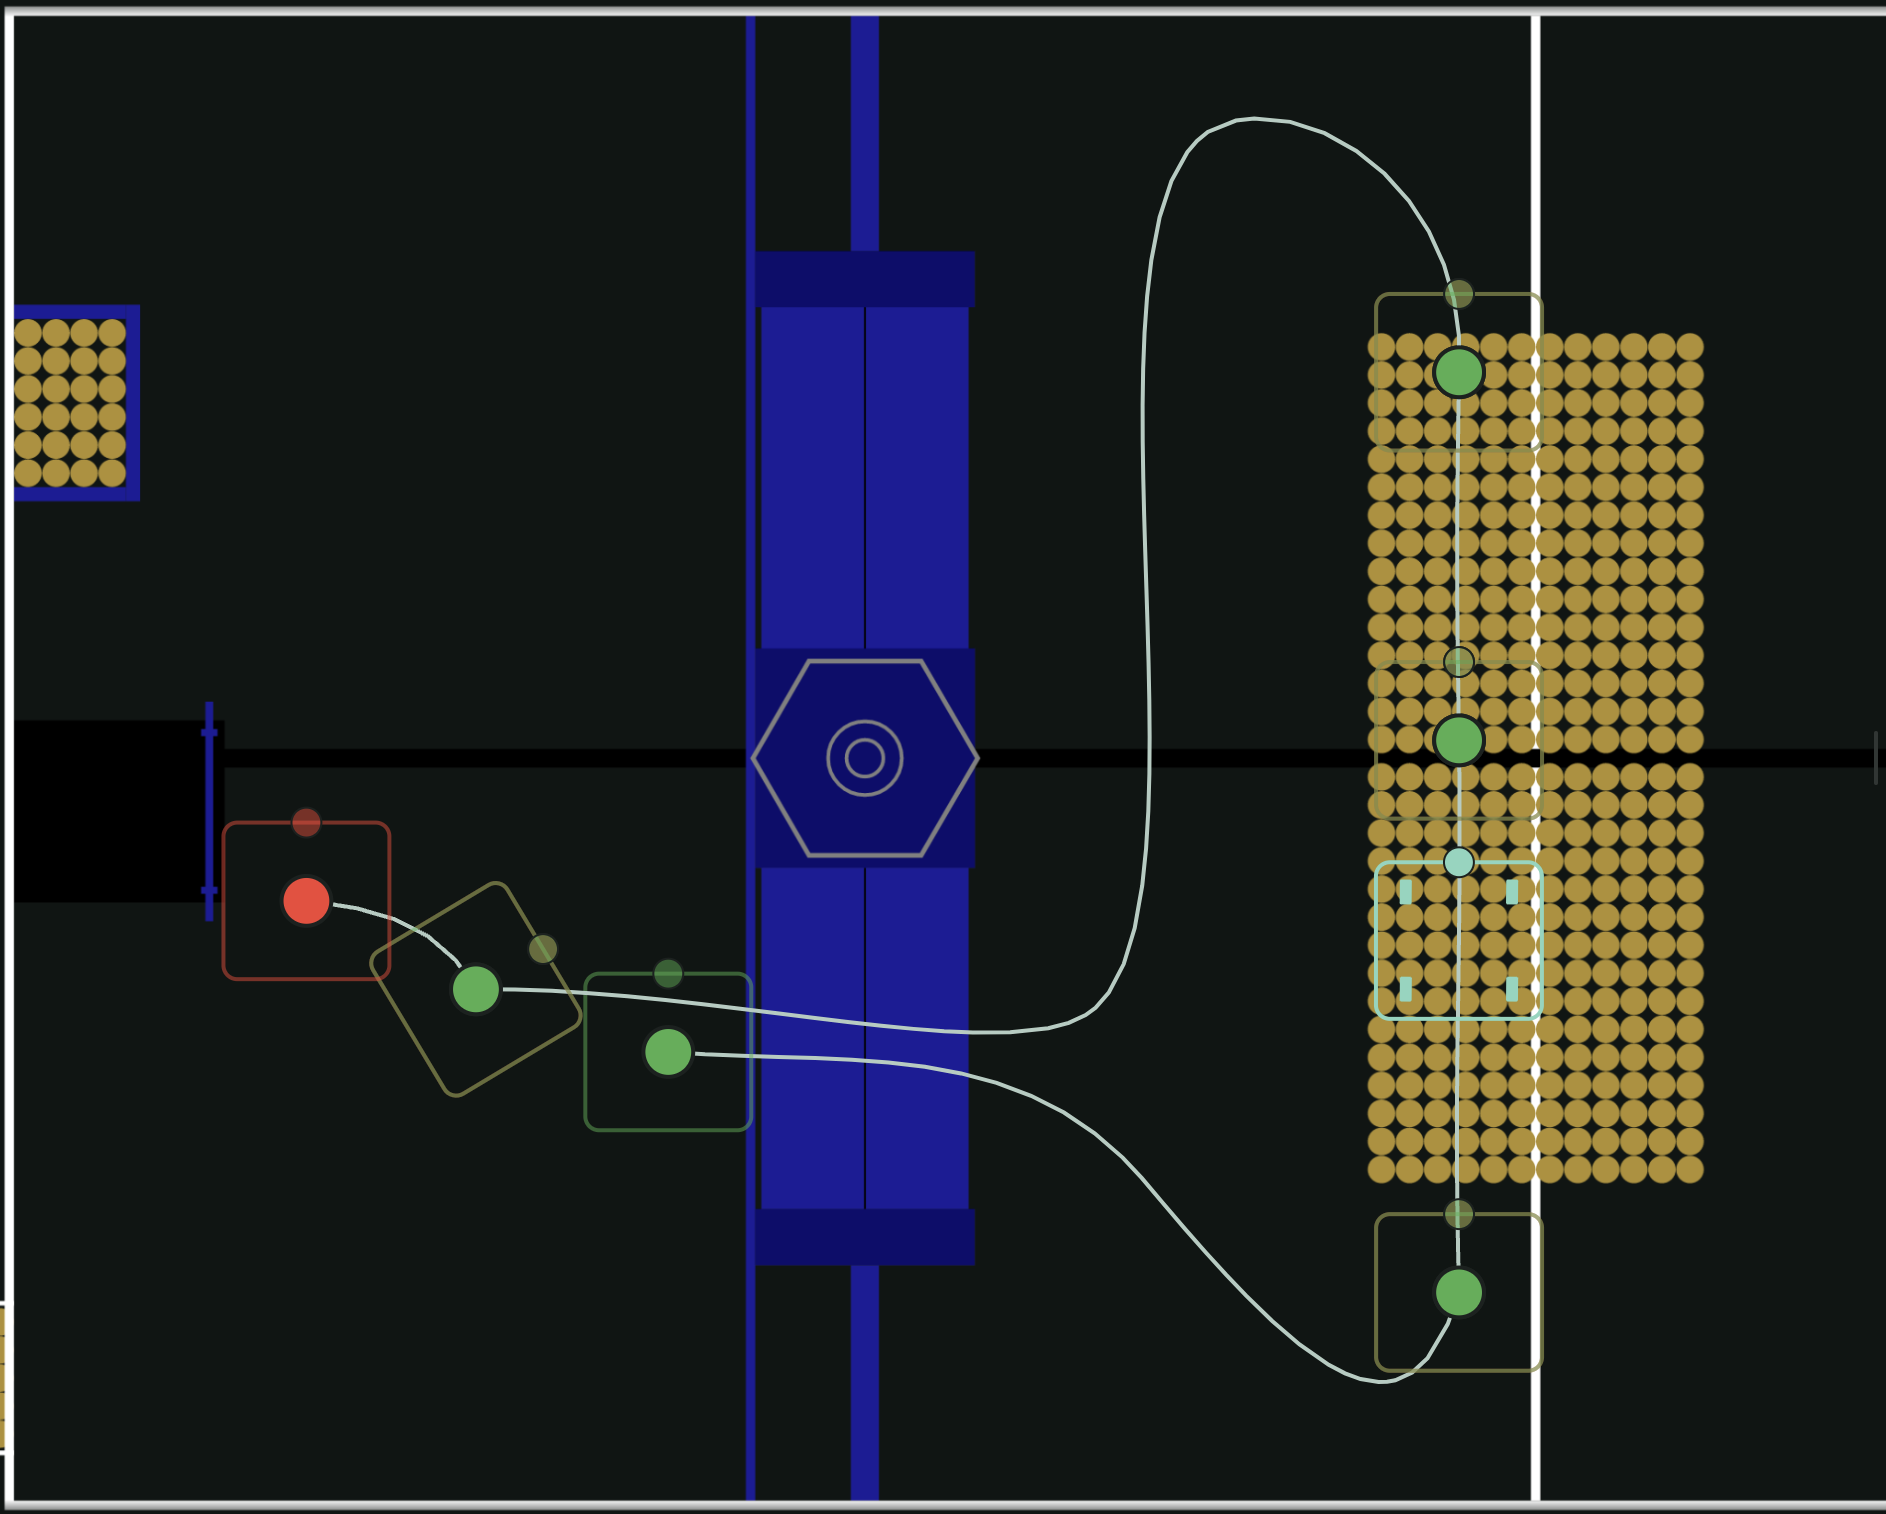
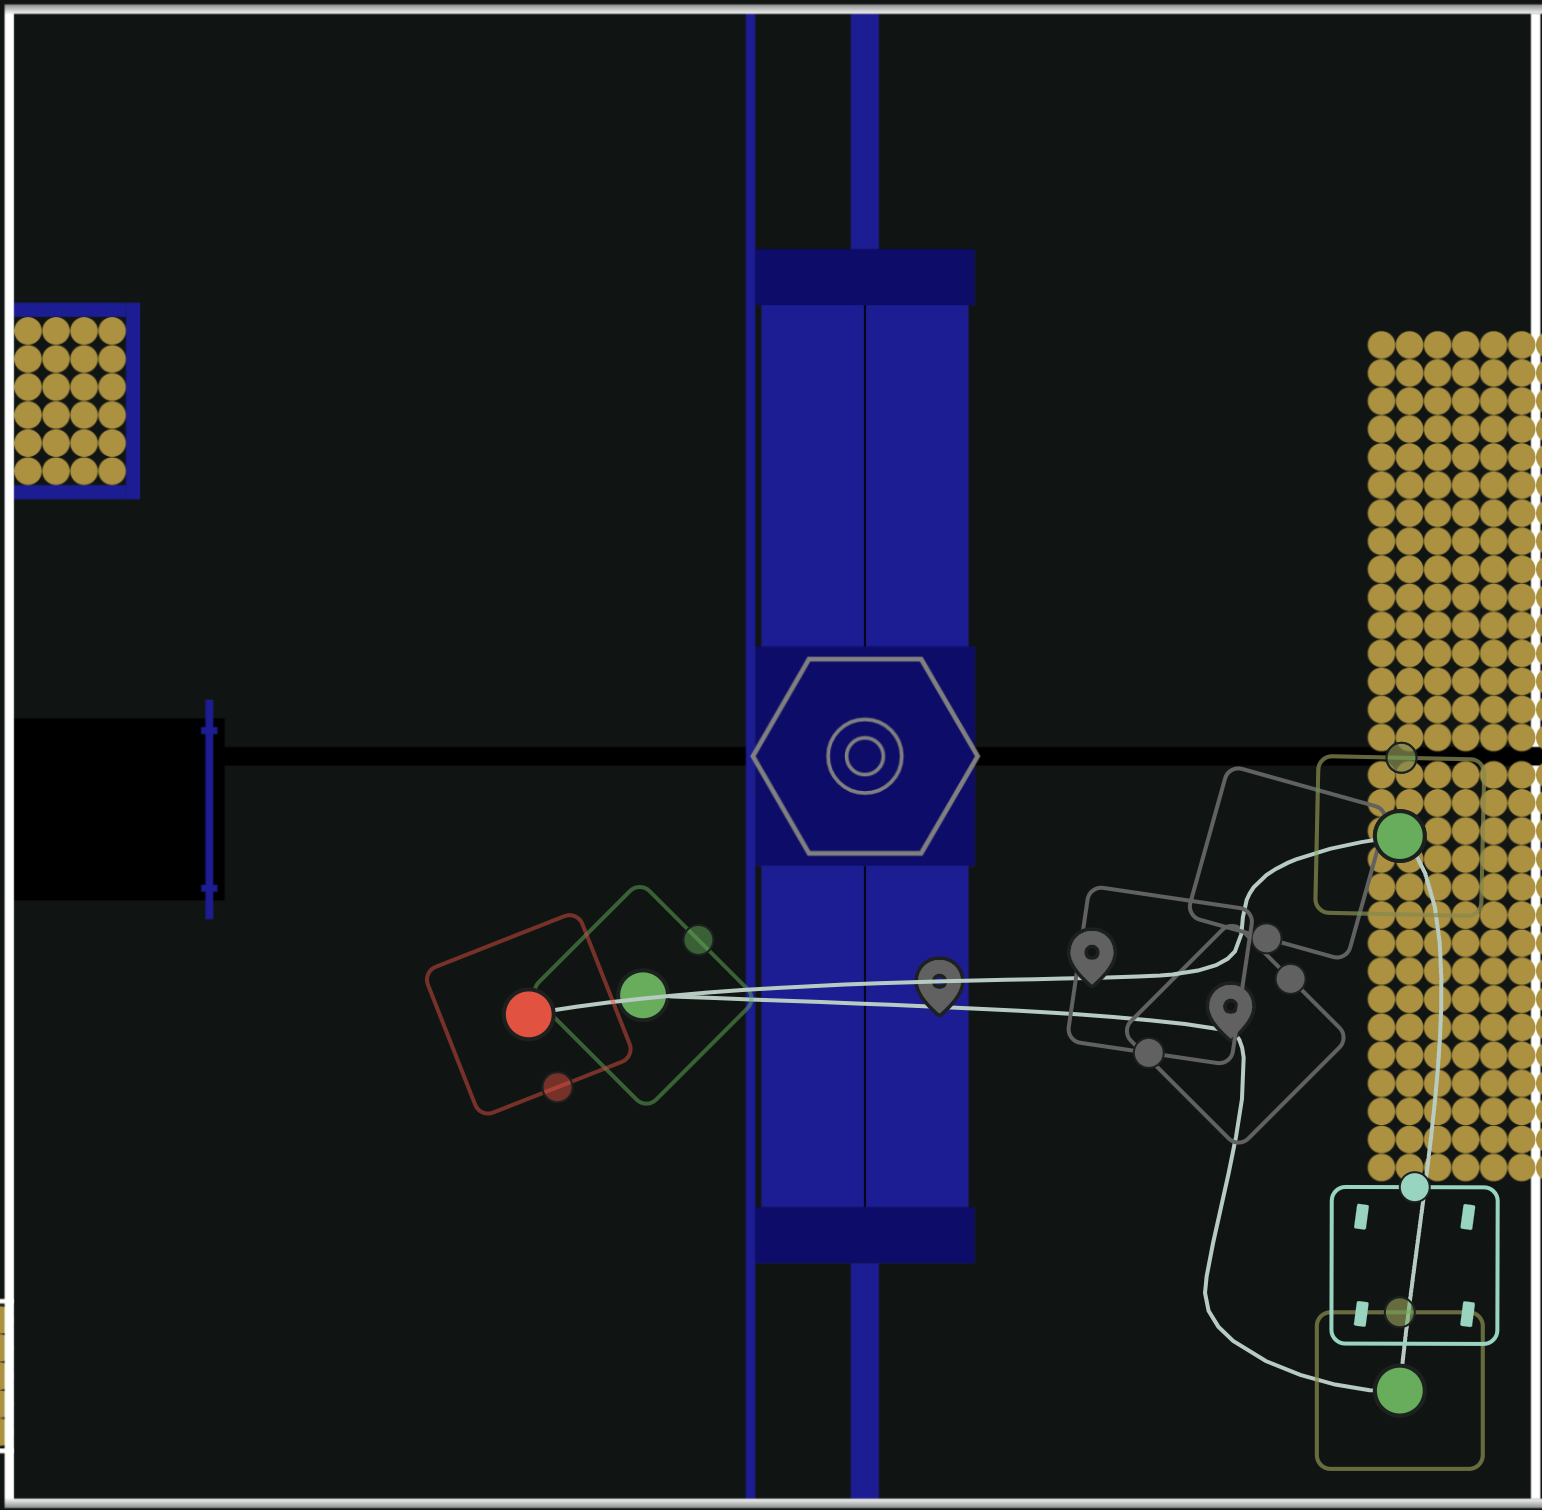
update autos

diff --git a/60452026autos.html b/60452026autos.html
@@ -11,12 +11,18 @@
     <p>The purpose of this website is to make it easier to find programming-related things that are used or made by FRC 6045.<br><br><br></p>
 
 <h2>6045 2026 autos</h2>
-    <p>This is a diagram of the main auto that 6045 is planning to use during the 2026 season.<br>
-    <img src="6045autos/2026-1.png" alt="image 1" style="width:472px;height:378px;"><br>
-    It intakes and shoots fuel into the alliance zone, then collects fuel shoots it into the hub. It then climbs.<br><br><br>
-    This is a diagram of the other auto that 6045 is planning to use during the 2026 season.<br>
-    <img src="6045autos/2026-2.png" alt="image 2" style="width:472px;height:378px;"><br>
-    It is like the previous one, but does not shoot any fuel into the alliance zone and stays within its quarter of the field.</p><br><br><br>
+    <p>This is a diagram of the main auto that 6045 has used the most.<br>
+    <img src="6045autos/2026-1.png" alt="image 1" style="width:771px;height:755px;"><br>
+    It uses one pass to intake and shoot about 60 fuel.<br><br><br>
+    This is a variation of the previous one.<br>
+    <img src="6045autos/2026-2.png" alt="image 1" style="width:771px;height:755px;"><br>
+    It changes the place from which the robot shoots to stay out of the way of other robots.<br><br><br>
+    This is another variation.<br>
+    <img src="6045autos/2026-3.png" alt="image 1" style="width:771px;height:755px;"><br>
+    It travels closer to the hub to pick up the fuel that is there if other teams have already passed through the center.<br><br><br>
+    This auto is not based on the others.<br>
+    <img src="6045autos/2026-4.png" alt="image 2" style="width:771px;height:755px;"><br>
+    It collects fuel from the depot, then scores it.</p><br><br><br>
 
 
 <h2><a href="index.html"><button style="appearance: none; background-color:rgb(133, 156, 223);color:rgb(7, 7, 98); border-color:white">Back to home page</button></a><br>